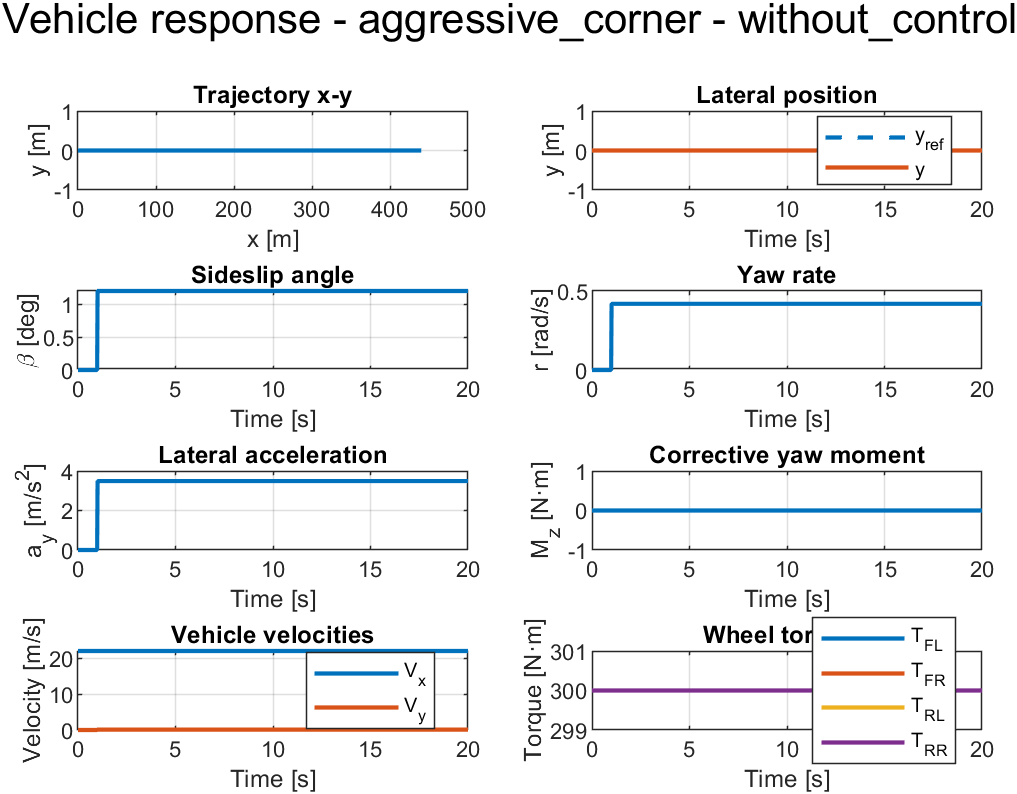
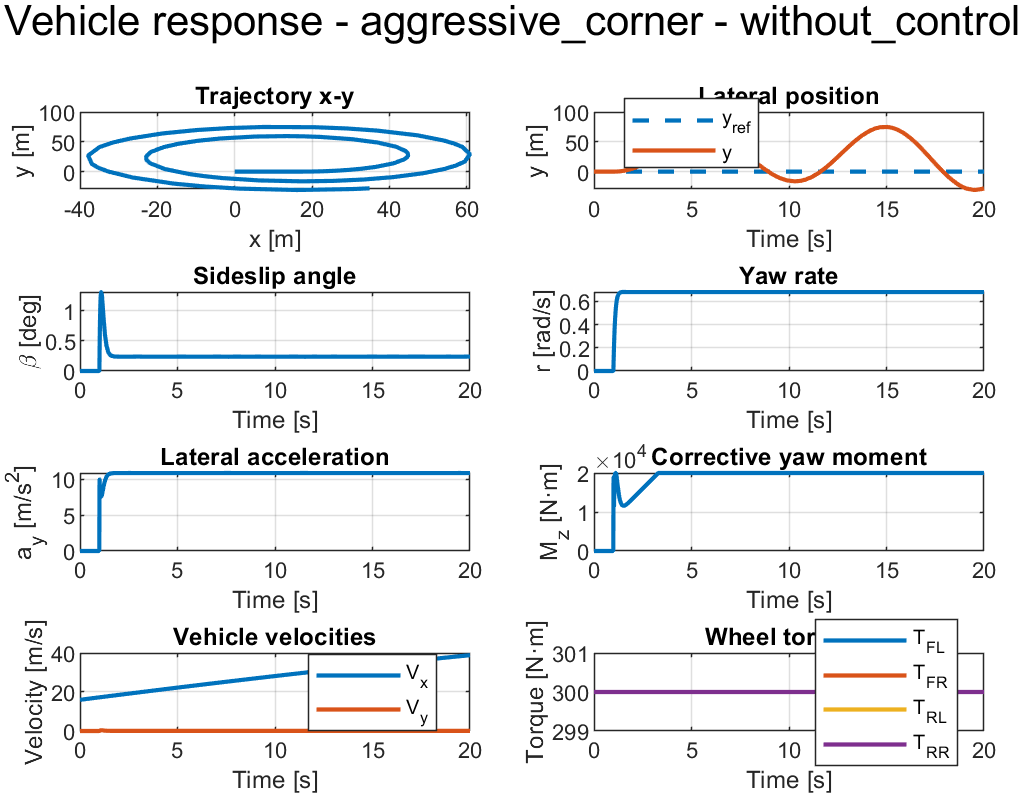
Functional and clean solution without errors

diff --git a/scripts/check_required_logs.m b/scripts/check_required_logs.m
@@ -21,6 +21,11 @@ required_signals = [
     "logs_T_FR"
     "logs_T_RL"
     "logs_T_RR"
+    "logs_Mz_applied"
+    "logs_Mz_to_plant"
+    "logs_T_left_total"
+    "logs_T_right_total"
+    "logs_delta_T_lr"
 ];
 
 has_signal = false(numel(required_signals), 1);

diff --git a/init/init_vehicle_params.m b/init/init_vehicle_params.m
@@ -1,5 +1,3 @@
-clear; clc; close all;
-
 run('P1_parametros_IONIQ5N.m');
 run('P2_parametros_IONIQ5N.m');
 

diff --git a/scripts/plot_vehicle_response.m b/scripts/plot_vehicle_response.m
@@ -119,7 +119,7 @@ sgtitle("Vehicle response - " + selected_scenario + " - " + control_case_name, .
 
 %% Save figure
 
-results_folder = fullfile("results", "vehicle_stub", "plots");
+results_folder = fullfile("results", "full_system", "plots");
 
 if ~exist(results_folder, "dir")
     mkdir(results_folder);